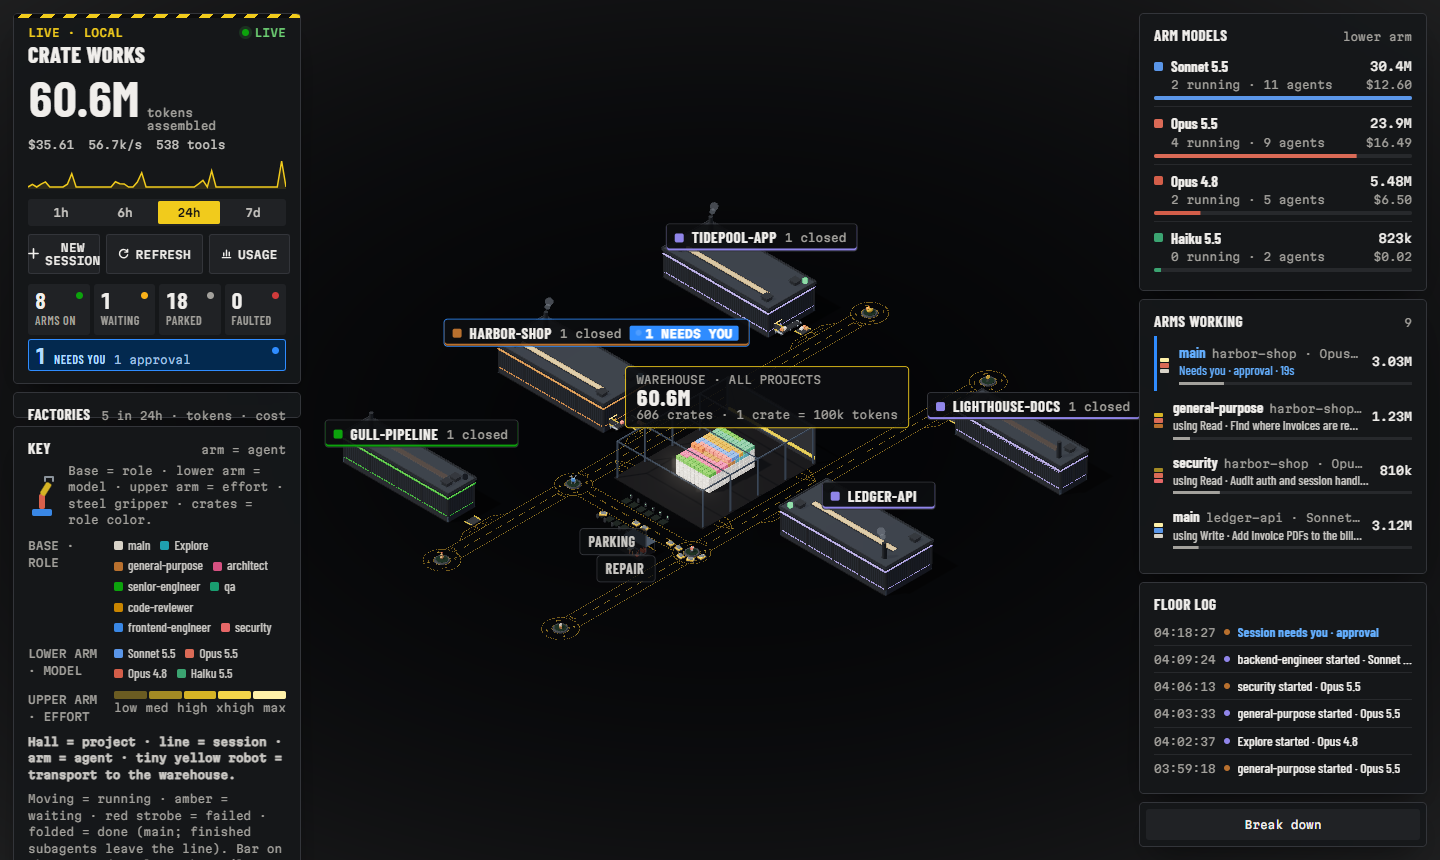
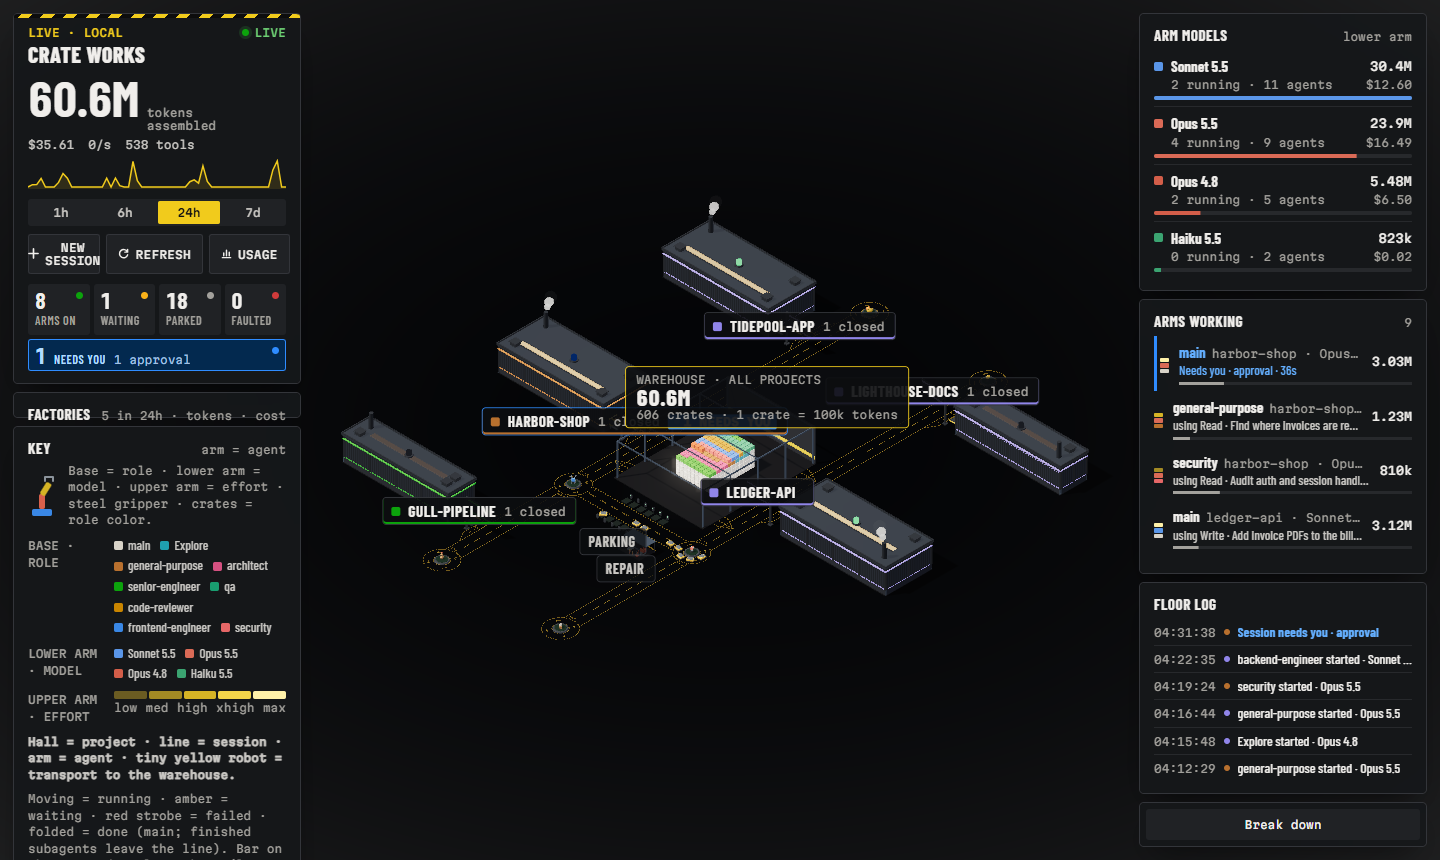
feat(floor): soft white chimney smoke; README screenshots show the hall billboards

diff --git a/index.html b/index.html
@@ -934,7 +934,7 @@ function buildScene(ctx) {
     f.roofM = mat('#2e343c', { metalness: .55, roughness: .5, transparent: true }); f.roofDM = mat('#22262c', { metalness: .5, roughness: .45, transparent: true });
     f.skyM = new THREE.MeshStandardMaterial({ color: '#1a2230', emissive: '#ffd08a', emissiveIntensity: .1, roughness: .2, metalness: .3, transparent: true });
     f.beaconM = new THREE.MeshBasicMaterial({ color: '#222222', toneMapped: false, transparent: true });
-    f.smoke = [0, 1, 2].map(i => { const m = new THREE.Mesh(smokeG, new THREE.MeshBasicMaterial({ color: '#e4e9ef', transparent: true, opacity: 0, depthWrite: false })); m.userData.ph = i / 3; m.visible = false; return m; });
+    f.smoke = [0, 1, 2].map(i => { const m = new THREE.Mesh(smokeG, new THREE.MeshBasicMaterial({ color: '#f4f2ee', transparent: true, opacity: 0, depthWrite: false })); m.userData.ph = i / 3; m.visible = false; return m; });
     f.op = 0; f.run = 0; f.wait = 0; f.need = 0;
     f.hit = new THREE.Mesh(new THREE.BoxGeometry(1, 1, 1), invisM); f.grp.add(f.hit); ctx.addPickable(f.hit, { kind: 'project', id: p.id });
     const ne = document.createElement('div'); ne.className = 'sign fac'; ne.style.setProperty('--c', p.color); ne.innerHTML = `<i class="sw" style="--c:${p.color}"></i><span></span><small class="cl"></small><b class="need"></b>`;
@@ -2210,7 +2210,7 @@ function buildScene(ctx) {
     else if (f.run) BC2.copy(GREEN).multiplyScalar(1.5); else BC2.set('#2a2d33');
     f.beaconM.color.copy(BC2);
     for (const m of f.smoke) { const on = !!f.run && !reduced && shut; m.visible = on; if (!on) continue; // chimney smoke while agents run
-      const u = (t * .25 + m.userData.ph) % 1; m.position.set(f.smokeAt[0] + u * .5, CH + e * 5 + 2.3 + u * 2.2, f.smokeAt[1] - u * .3); m.scale.setScalar(.7 + u * 1.8); m.material.opacity = .7 * Math.sin(u * Math.PI) * fade; }
+      const u = (t * .25 + m.userData.ph) % 1; m.position.set(f.smokeAt[0] + u * .5, CH + e * 5 + 2.3 + u * 2.2, f.smokeAt[1] - u * .3); m.scale.setScalar(.7 + u * 1.8); m.material.opacity = .82 * Math.sin(u * Math.PI) * fade; }
   }
   function frame(dt, t) {
     simT += dt; const t0 = performance.now(); frameBody(dt, t); frameMs = frameMs * .95 + (performance.now() - t0) * .05;
